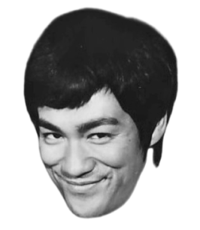
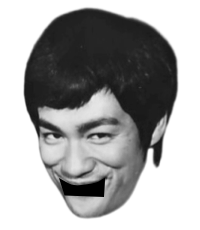
test mouths

Changed region(s): [[0.3, 0.7609, 0.54, 0.8826], [0.81, 0.5783, 0.84, 0.6087]]

diff --git a/components/AudioPlayer.js b/components/AudioPlayer.js
@@ -1,7 +1,7 @@
 "use client";
 import Image from 'next/image';
 import React, { useState } from 'react';
-import { motion } from 'framer-motion';
+import { motion, stagger } from 'framer-motion';
 
 const AudioPlayer = ({ src, post }) => {
     const [isPlaying, setIsPlaying] = useState(false);
@@ -12,36 +12,49 @@ const AudioPlayer = ({ src, post }) => {
         //     audioRef.current.pause();
         // } else {
         audioRef.current.play();
+        audioRef.current.onended = function () {
+            setIsPlaying(false);
+        };
         // }
         setIsPlaying(!isPlaying);
+
     };
 
     return (
         <>
             <motion.div
+                initial={{ scale: .9 }}
                 whileHover={{
                     scale: 1.2, // Scale up to 1.5 on hover
                     rotate: 360, // Rotate 360 degrees on hover
                     transition: { duration: .4 }, // Transition duration of 2 seconds
                 }}
+                stagger={0.9}
+
+
                 className='z-50'
             >
                 <motion.div
                     animate={{
                         scale: [1, 2, 2, 1, 1],
                         rotate: [0, 0, 270, 270, 0],
-                        borderRadius: ["20%", "20%", "50%", "50%", "20%"],
+                    }}
 
-                    }}>
+
+
+                >
                     <audio ref={audioRef} src={src} />
                     {/* <button onClick={togglePlay}>{isPlaying ? 'Pause' : 'Play'}</button> */}
-                    <div className='py-2 mx-auto my-1 flex justify-center cursor z-50'>
+                    <div className=' relative py-2 mx-auto my-1 flex justify-center cursor z-50'>
                         <Image onClick={togglePlay} src={post.data.img} alt={post.data.title} width={200} height={230} className='h-full' />
+                        <div className={isPlaying ? `absolute ${post.data.title}-mouth move` : `absolute ${post.data.title}-mouth`}>
+                            <Image src={post.data.mouth} alt="mouth" width={94} height={66} className='h-full' />
+
+                        </div>
                     </div>
                 </motion.div>
             </motion.div>
         </>
     );
 };
-
 export default AudioPlayer;

diff --git a/styles/globals.css b/styles/globals.css
@@ -15,3 +15,47 @@ h6 {
 body {
   font-family: var(--font-secondary);
 }
+
+@keyframes MoveUpDown {
+  0%, 100% {
+    bottom: 0%;
+  }
+  50% {
+    bottom: -5%;
+  }
+}
+
+@keyframes MoveUpDown {
+  0%, 100% {
+    bottom: 0%;
+  }
+  50% {
+    bottom: -3%;
+  }
+}
+
+.trump-mouth {
+  bottom: 0%;
+  left: 41%;
+}
+
+.trump-mouth.move {
+  animation: MoveUpDown .3s linear infinite;
+}
+.bruce-mouth {
+  bottom: 0%;
+  left: 34.4%;
+}
+
+.bruce-mouth.move {
+  animation: MoveUpDown .3s linear infinite;
+}
+.donnie-mouth {
+  bottom: 0%;
+  left: 45.4%;
+}
+
+.donnie-mouth.move {
+  animation: MoveUpDown .3s linear infinite;
+}
+

diff --git a/components/Layout.module.css b/components/Layout.module.css
@@ -44,3 +44,5 @@
   filter: blur(44px);
   z-index: -1;
 }
+
+
